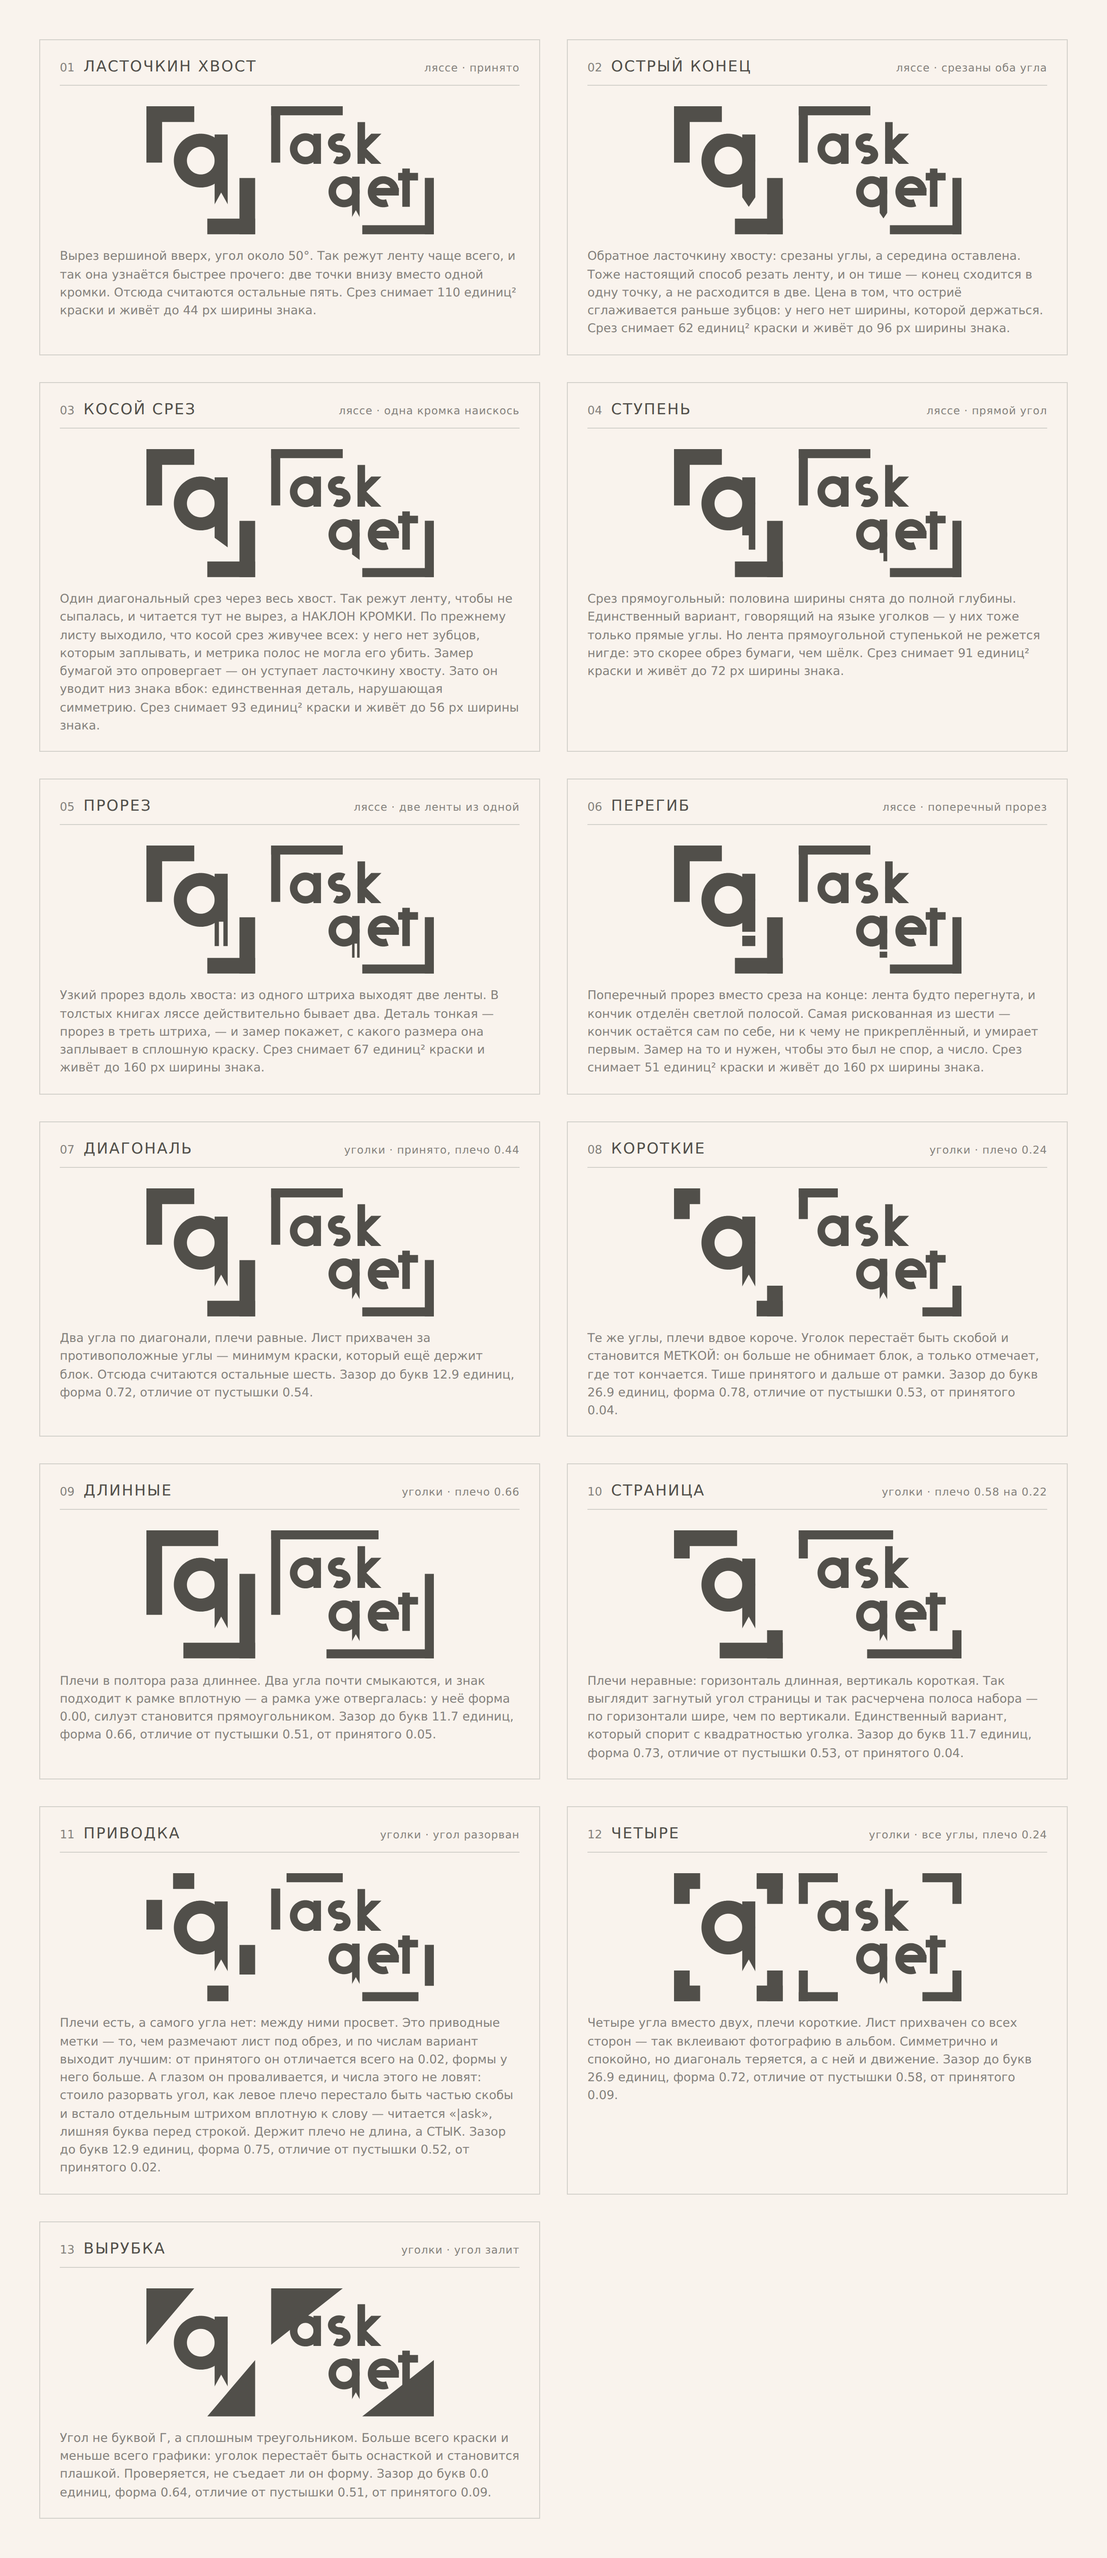
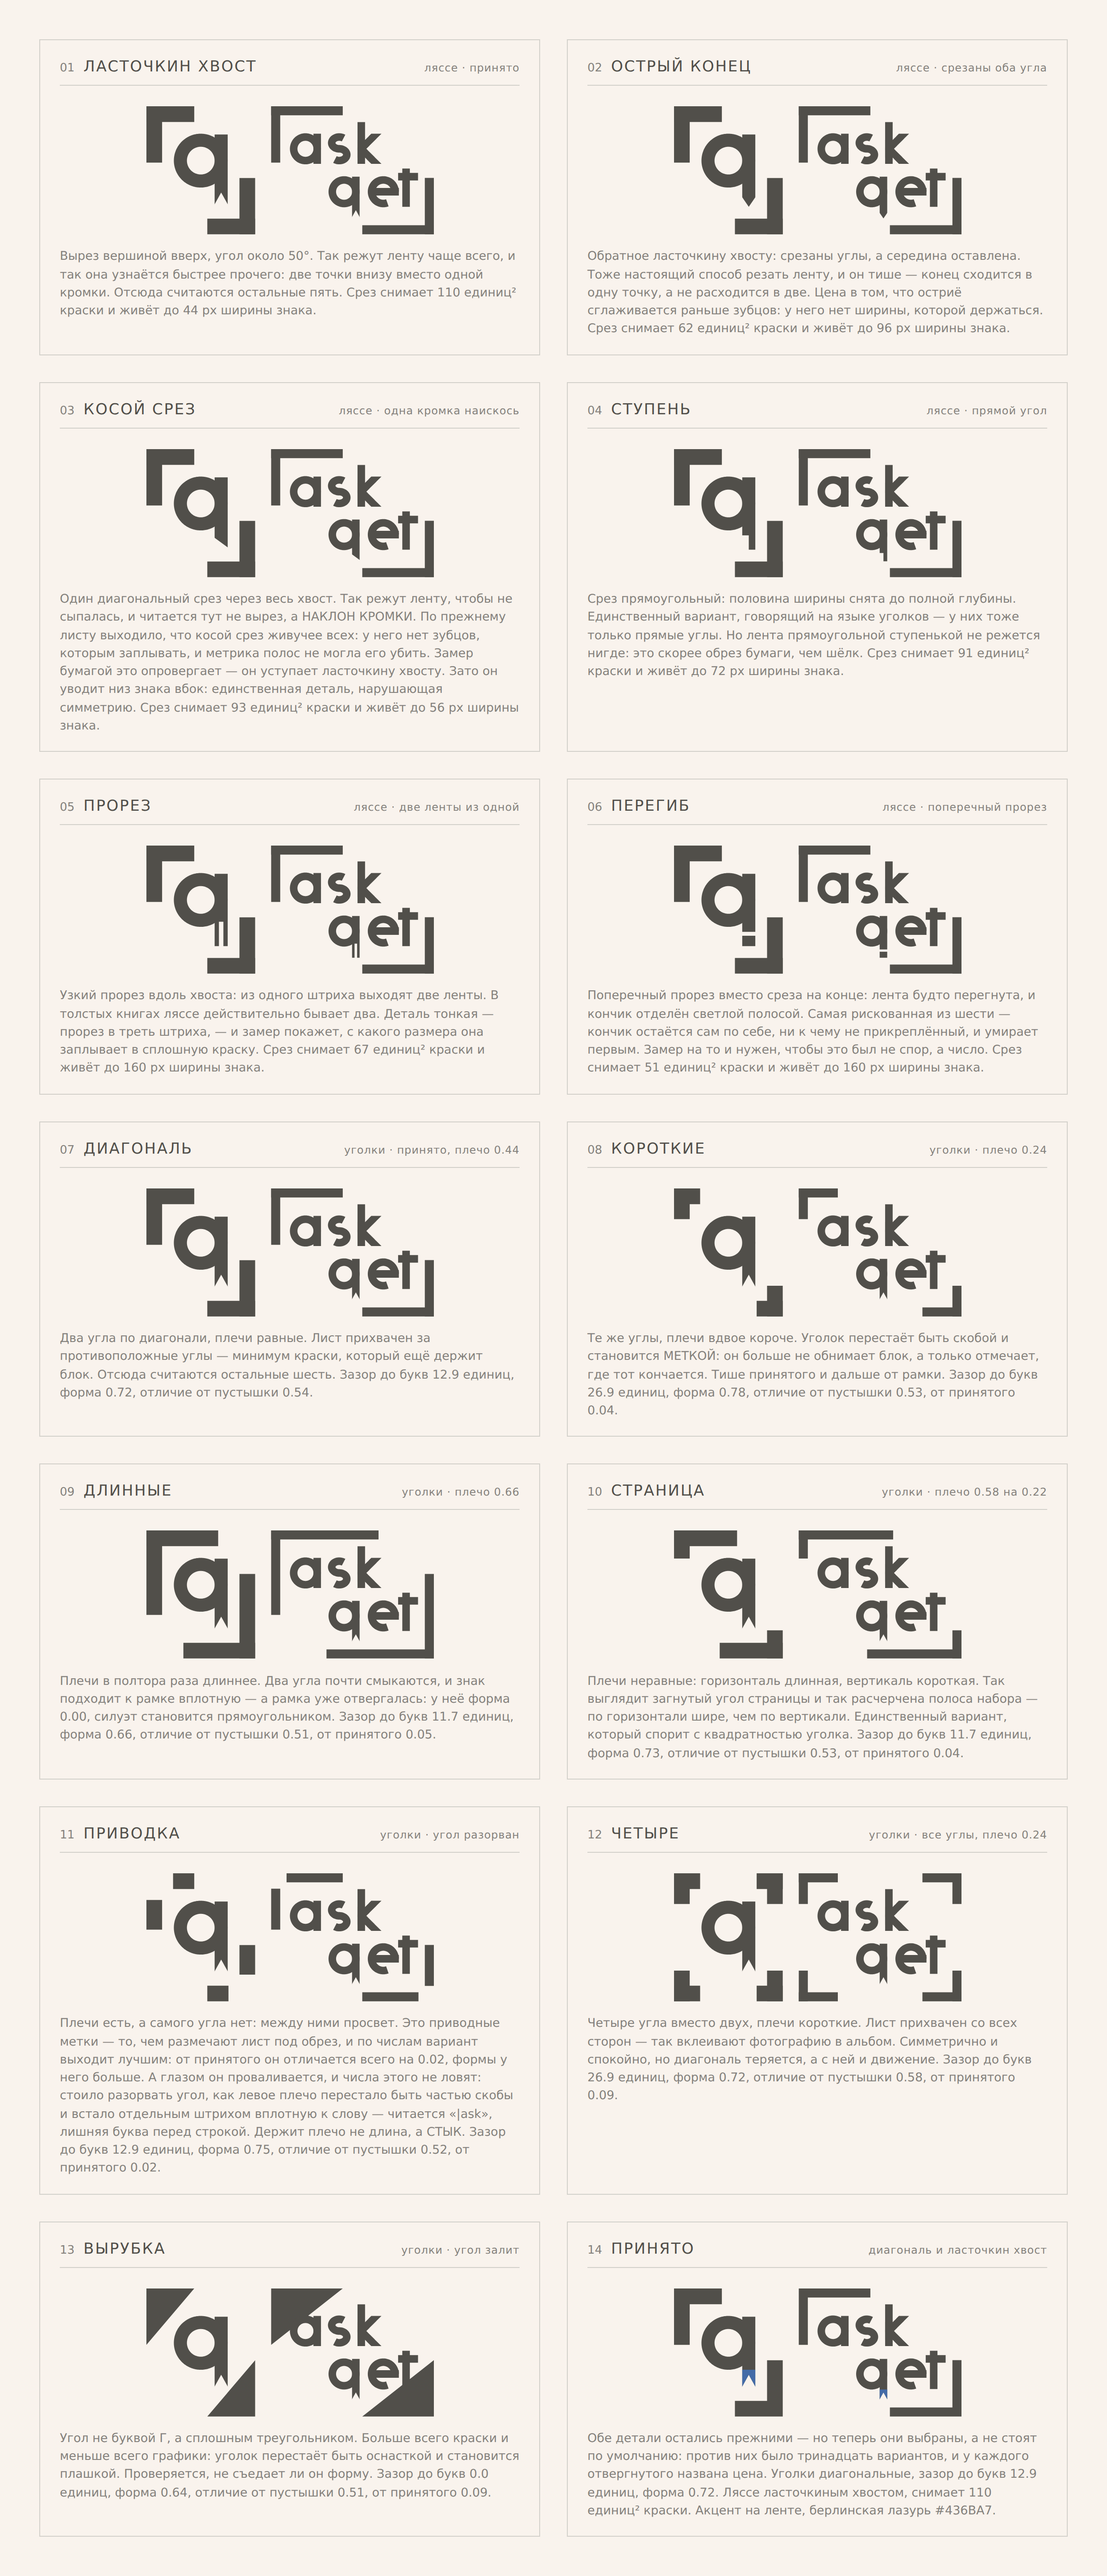
AskQet: принято — диагональ и ласточкин хвост
Выбор заказчика по обоим листам. Обе детали совпали с принятыми раньше, и
это не «ничего не изменилось»: до листа вариантов они стояли по
умолчанию, а теперь выбраны против тринадцати, и у каждого отвергнутого
названа цена.

Уголки диагональные: зазор до букв 12.9 единиц, форма 0.72. Ляссе
ласточкиным хвостом: снимает 110 единиц² краски, больше всех шести
срезов, и живёт до 44 px.

Добавлена закрывающая карточка — обе детали в принятом виде и в принятом
цвете, литера и логотип рядом. Это знак целиком: набор, ляссе, уголки,
акцент на ленте берлинской лазурью.

Дальше остаются рабочие файлы с запечёнными контурами и полный алфавит,
включая казахскую латиницу.

Claude-Session: https://claude.ai/code/session_01DhkoJ73SdYufdyXf4oTAgs

diff --git a/brand/askqet/tools/pair.py b/brand/askqet/tools/pair.py
@@ -78,6 +78,13 @@ import letterforms as L  # noqa: E402
 import hanging as H  # noqa: E402
 from verify import (ASC, XH, DESC, ST, LEAD, ARM, TAIL, inner,  # noqa: E402
                     blanks)
+from color import ACCENTS, scheme, parts, icon_parts  # noqa: E402
+
+# Выбор заказчика по обоим листам: уголки — ДИАГОНАЛЬ, ляссе — ЛАСТОЧКИН
+# ХВОСТ. Оба совпали с принятым раньше, и это не «ничего не изменилось»:
+# до этого листа они стояли по умолчанию, а теперь — после перебора
+# тринадцати вариантов, с названной ценой каждого отвергнутого.
+CHOSEN = dict(clamp="diag", lasse="notch")
 
 PAD = 26.0
 THICK = ST * 1.20              # принятая толщина уголка
@@ -448,9 +455,27 @@ if __name__ == "__main__":
                  f"{d['form']:.2f}, отличие от пустышки {d['blank']:.2f}"
                  f"{same}."))
 
+    # Закрывающая карточка: обе детали в принятом виде и в принятом цвете.
+    # Литера и логотип рядом — это и есть знак целиком.
+    acc = dict((k, v) for k, _, v, _ in ACCENTS)["berlin"]
+    C = scheme(acc, "tail")
+    write("logo/pair/z-final.svg",
+          pane([icon_parts(ind, C), parts(ind, C)]))
+    d, g = ml[CHOSEN["lasse"]], mc[CHOSEN["clamp"]]
+    items.append(dict(
+        key="z-final", num=f"{len(items) + 1:02d}", title="ПРИНЯТО",
+        means="диагональ и ласточкин хвост",
+        note=f"Обе детали остались прежними — но теперь они выбраны, а не "
+             f"стоят по умолчанию: против них было тринадцать вариантов, и "
+             f"у каждого отвергнутого названа цена. Уголки диагональные, "
+             f"зазор до букв {g['gap']:.1f} единиц, форма {g['form']:.2f}. "
+             f"Ляссе ласточкиным хвостом, снимает {d['area']:.0f} единиц² "
+             f"краски. Акцент на ленте, берлинская лазурь {acc}."))
+
     with open(os.path.join(ROOT, "tools/pair.json"), "w",
               encoding="utf-8") as f:
-        json.dump(dict(lasse=ml, clamp=mc), f, ensure_ascii=False, indent=1)
+        json.dump(dict(lasse=ml, clamp=mc, chosen=CHOSEN),
+                  f, ensure_ascii=False, indent=1)
     with open(os.path.join(ROOT, "tools/pair_sheet.json"), "w",
               encoding="utf-8") as f:
         json.dump(dict(folder="logo/pair", paper=PAPER, ink=INK, muted=MUTED,
@@ -496,3 +521,9 @@ if __name__ == "__main__":
           f"единиц²) и живёт до {ml['notch']['alive']} px — он и остаётся "
           f"сильнейшим. Прорез и перегиб умирают на "
           f"{ml['fold']['alive']} px, то есть в аватаре их нет вовсе.")
+
+    print(f"\nПРИНЯТО: уголки — {dict((k, t) for k, t, _, _ in CLAMPS)[CHOSEN['clamp']]}, "
+          f"ляссе — {dict((k, t) for k, t, _, _, _ in LASSE)[CHOSEN['lasse']]}.\n"
+          f"Обе детали прежние, но выбраны против тринадцати вариантов, а "
+          f"не оставлены по умолчанию.\nЗнак закрыт: набор, ляссе, уголки, "
+          f"цвет. Дальше — рабочие файлы и алфавит.")
